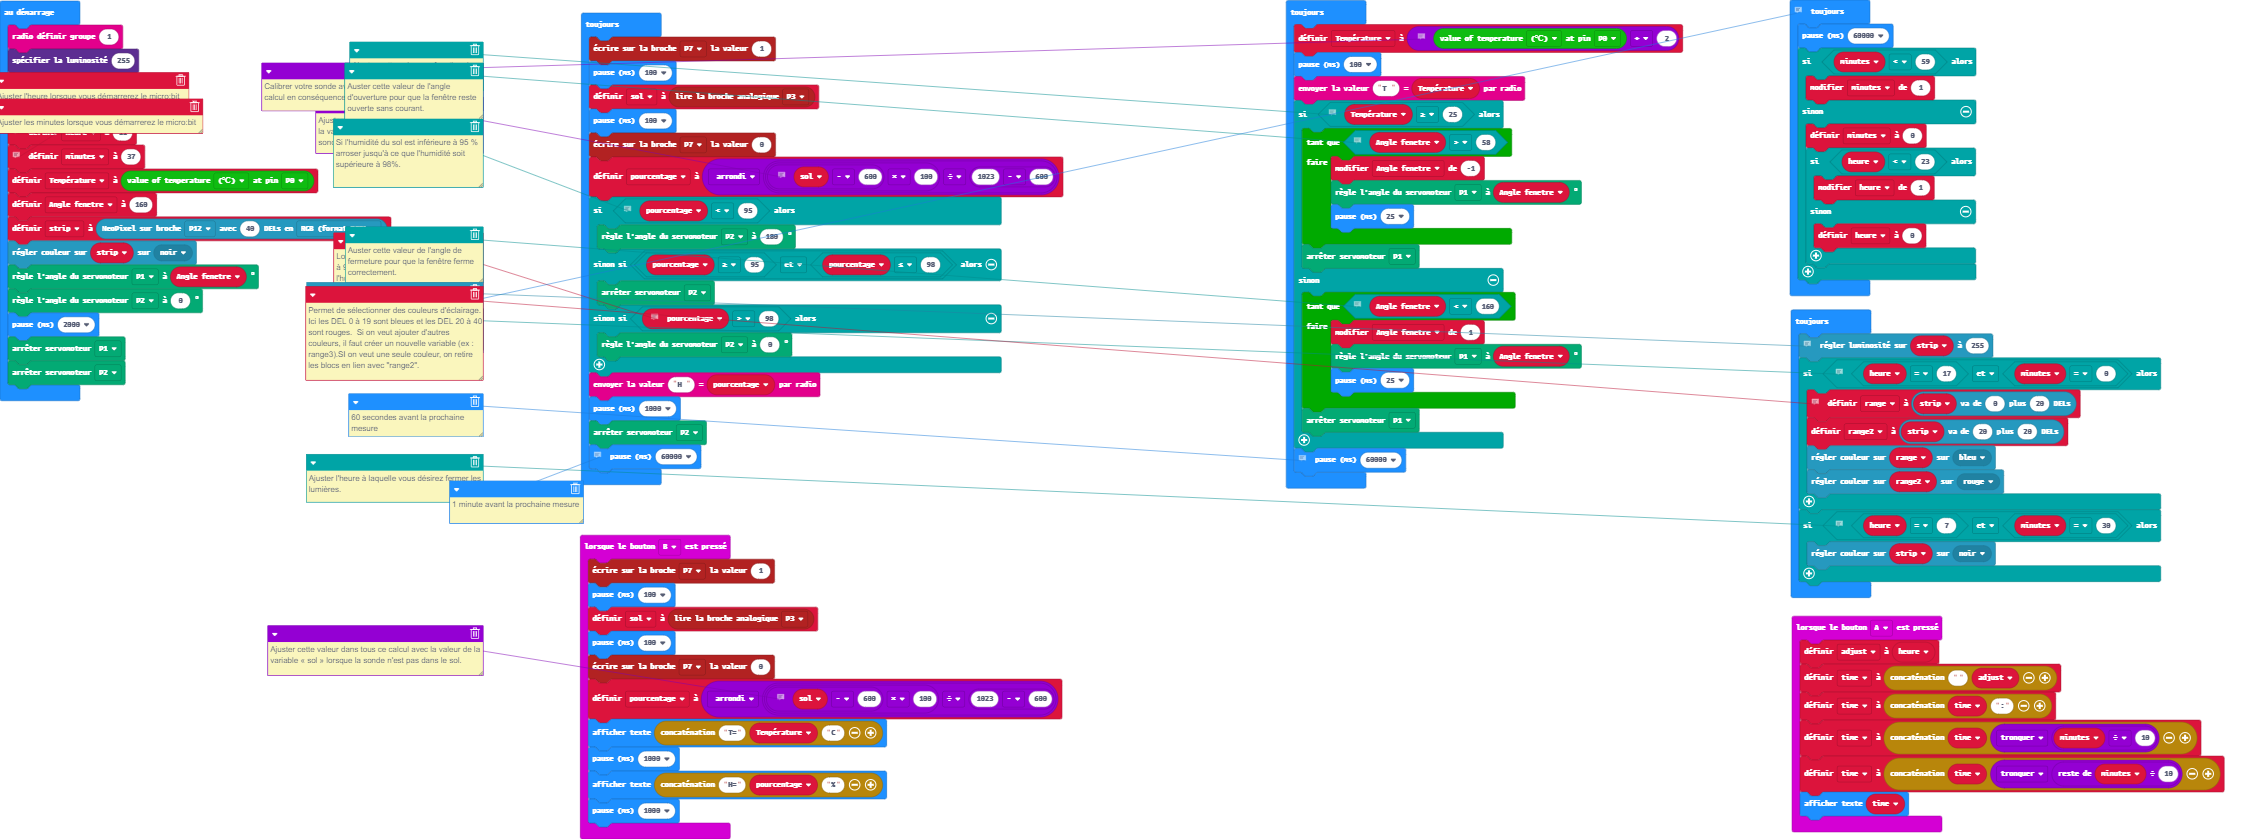
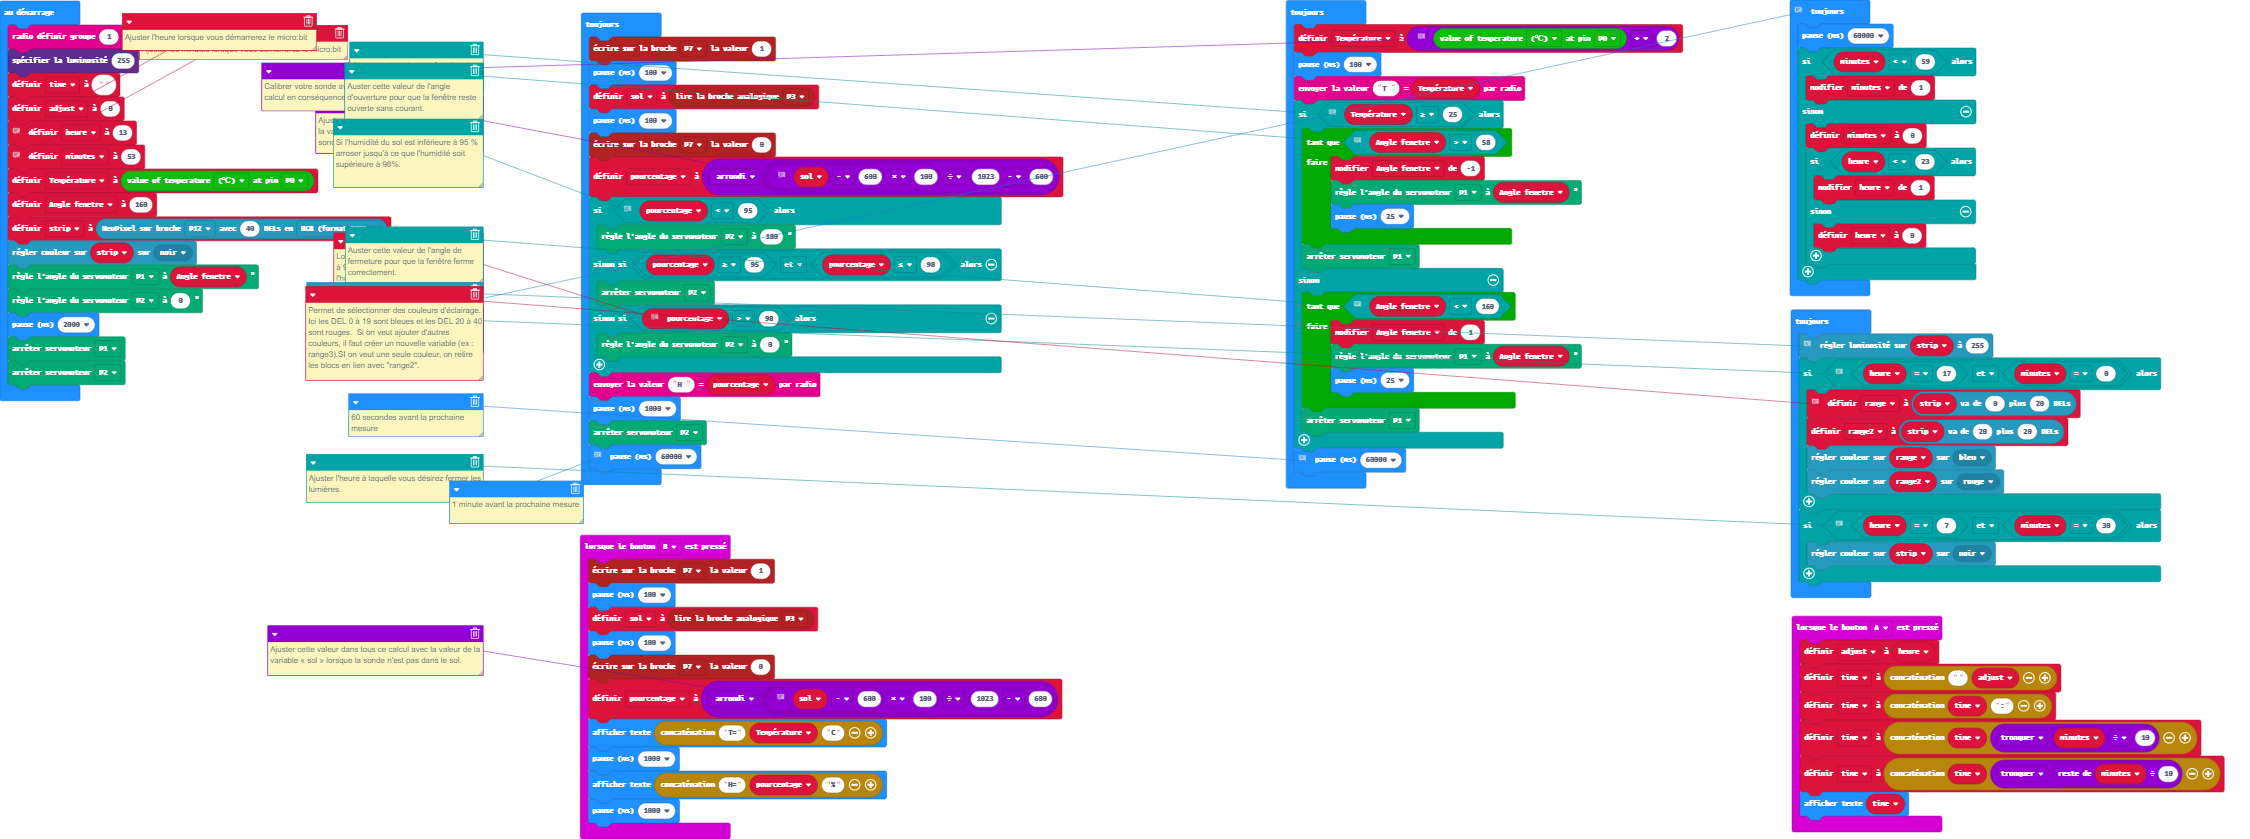
Mise à jour main.blocks, main.ts

Changed region(s): [[0.0, 0.0, 0.1556, 0.1859]]

diff --git a/main.ts b/main.ts
@@ -33,9 +33,9 @@ led.setBrightness(255)
 time = ""
 adjust = 0
 // Ajuster l'heure lorsque vous démarrerez le micro:bit
-heure = 11
+heure = 13
 // Ajuster les minutes lorsque vous démarrerez le micro:bit
-minutes = 37
+minutes = 53
 Température = smarthome.ReadTemperature(TMP36Type.TMP36_temperature_C, AnalogPin.P0)
 let Angle_fenetre = 160
 let strip = neopixel.create(DigitalPin.P12, 40, NeoPixelMode.RGB)
